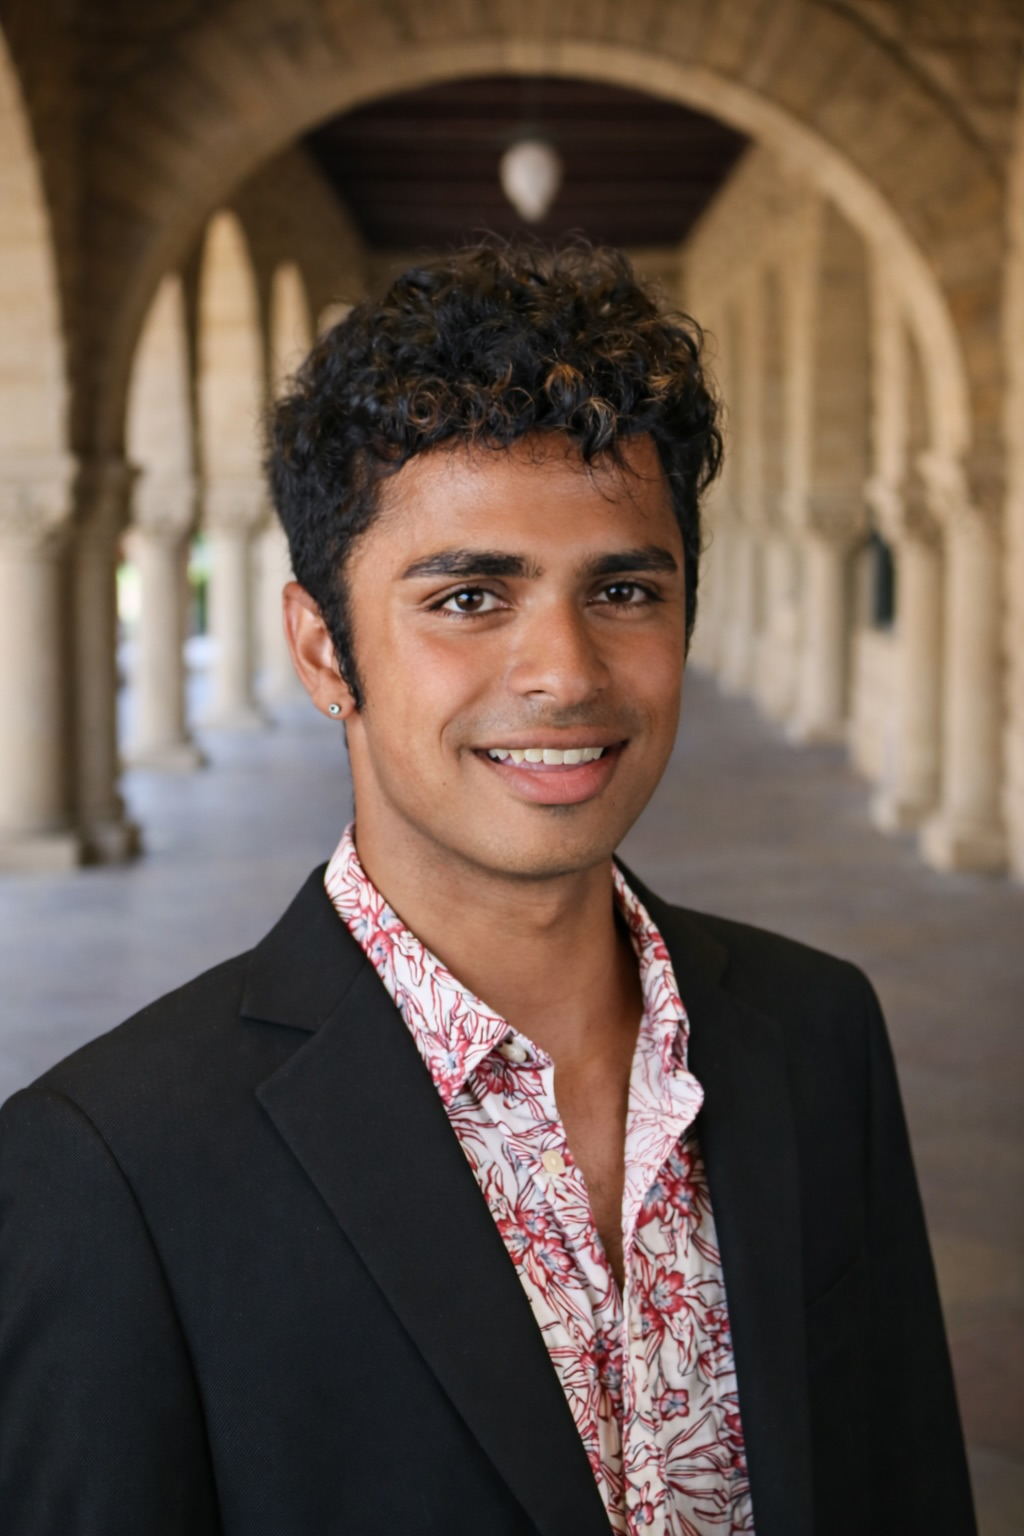
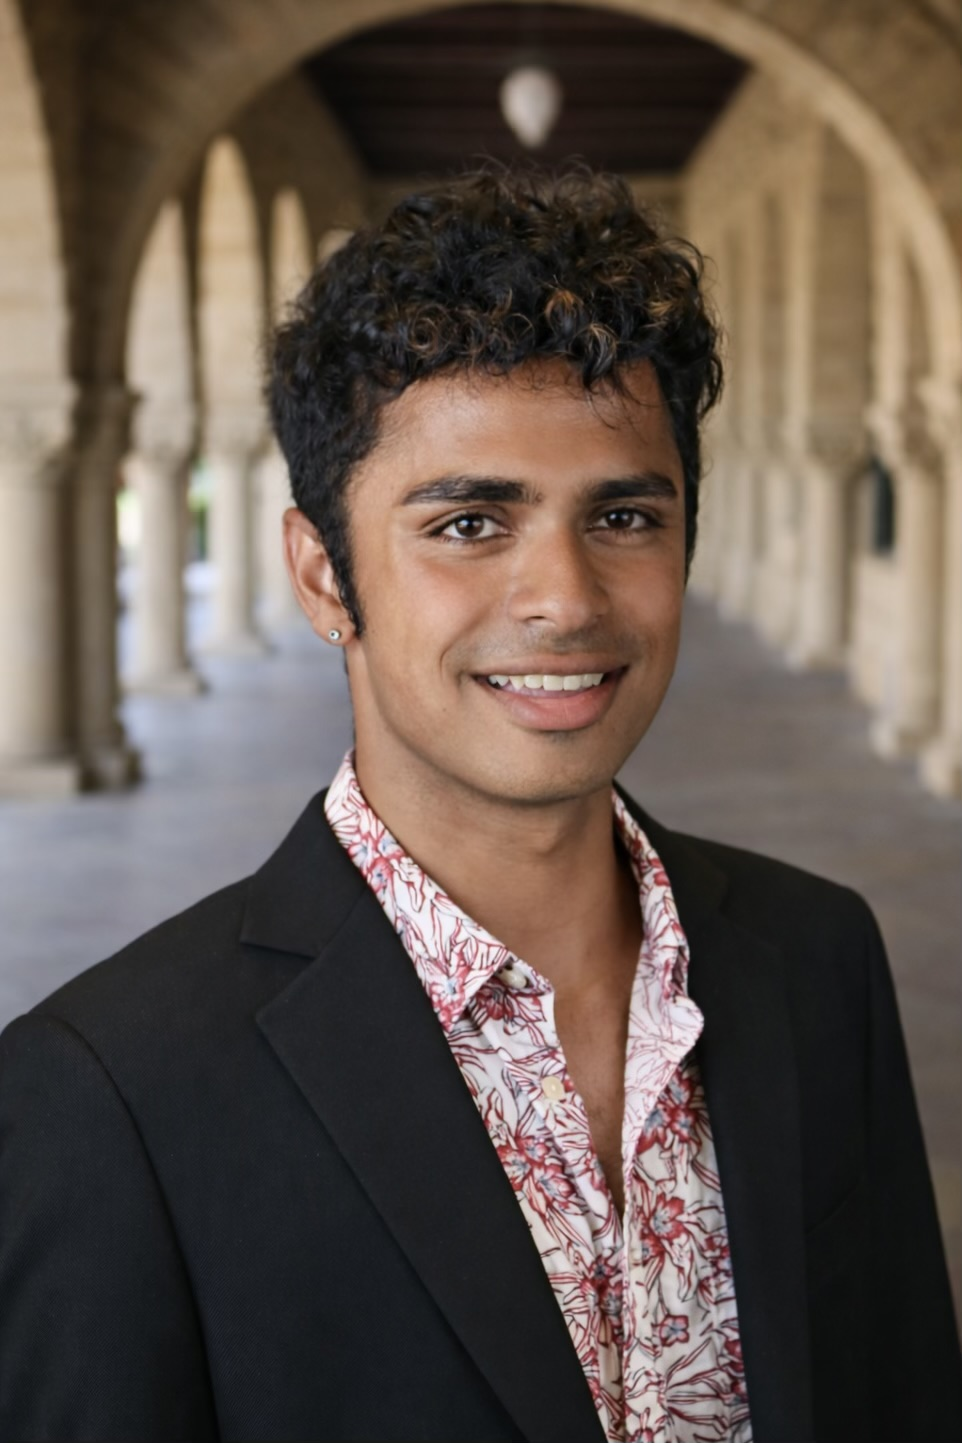
update headshots, mobile hero animations, and styling tweaks
New headshots with aligned eyelines, bolder NO BRAKES on mobile,
italic slogan, staggered hero entrance animation, and new event images.

diff --git a/index.html b/index.html
@@ -22,7 +22,7 @@
 
   <link rel="preconnect" href="https://fonts.googleapis.com">
   <link rel="preconnect" href="https://fonts.gstatic.com" crossorigin>
-  <link href="https://fonts.googleapis.com/css2?family=Caprasimo&family=Anton&family=IBM+Plex+Sans:wght@400;500;600;700&family=Sacramento&family=Archivo+Black&family=Playfair+Display:ital,wght@0,700;1,700&family=Share+Tech+Mono&family=Permanent+Marker&display=swap" rel="stylesheet">
+  <link href="https://fonts.googleapis.com/css2?family=Caprasimo&family=Anton&family=IBM+Plex+Sans:wght@400;500;600;700&family=Sacramento&family=Archivo+Black&family=Playfair+Display:ital,wght@0,700;1,700&family=Share+Tech+Mono&family=Bebas+Neue&display=swap" rel="stylesheet">
   <link rel="icon" href="img/favicon.svg" type="image/svg+xml">
   <link rel="icon" href="img/favicon.png" type="image/png" sizes="64x64">
   <link rel="stylesheet" href="style.css">
@@ -197,7 +197,7 @@
   <div class="road"><div class="road-lines"><span></span><span></span><span></span><span></span><span></span></div></div>
   <div class="marquee marquee--yellow">
     <div class="marquee-track marquee-track--reverse">
-      <span>★ THE CLASSICS ★ 70+ EVENTS FUNDED ★ MADHAV & EVA ★ THE CLASSICS ★ 70+ EVENTS FUNDED ★ MADHAV & EVA ★&nbsp;</span>
+      <span>★ THE CLASSICS ★ 70+ EVENTS HOSTED AND SUPPORTED ★ MADHAV & EVA ★ THE CLASSICS ★ 70+ EVENTS HOSTED AND SUPPORTED ★ MADHAV & EVA ★&nbsp;</span>
     </div>
   </div>
 
@@ -212,16 +212,16 @@
     <div class="flyer-masonry">
       <div class="flyer-card" data-tilt><img src="img/full-moon.png" alt="Full Moon on the Quad"><span class="flyer-label">Full Moon on the Quad</span></div>
       <div class="flyer-card" data-tilt><img src="img/full-moon-2.jpg" alt="Full Moon on the Quad 2"><span class="flyer-label">Full Moon on the Quad</span></div>
-      <div class="flyer-card" data-tilt><img src="img/day-n-mayfield.png" alt="Day N Mayfield"><span class="flyer-label">Day N Mayfield</span></div>
+      <div class="flyer-card" data-tilt><img src="img/day-n-mayfield.jpg" alt="Day N Mayfield"><span class="flyer-label">Day N Mayfield</span></div>
       <div class="flyer-card" data-tilt><img src="img/down-to-funk.png" alt="Down to Funk"><span class="flyer-label">Down to Funk</span></div>
       <div class="flyer-card" data-tilt><img src="img/houseparty.png" alt="Faculty + Students Houseparty"><span class="flyer-label">Faculty Houseparty</span></div>
       <div class="flyer-card" data-tilt><img src="img/rents-due.png" alt="'Rents Due"><span class="flyer-label">'Rents Due</span></div>
       <div class="flyer-card" data-tilt><img src="img/town-hall.png" alt="Town Hall"><span class="flyer-label">Town Hall</span></div>
       <div class="flyer-card" data-tilt><img src="img/crochella.png" alt="Crochella"><span class="flyer-label">Crochella</span></div>
-      <div class="flyer-card" data-tilt><img src="img/wasted-tuition.png" alt="Wasted Tuition"><span class="flyer-label">Wasted Tuition</span></div>
-      <div class="flyer-card" data-tilt><img src="img/dance-of-dead.png" alt="Dance of the Dead"><span class="flyer-label">Dance of the Dead</span></div>
-      <div class="flyer-card" data-tilt><img src="img/nomad.png" alt="NOMAD"><span class="flyer-label">NOMAD</span></div>
-      <div class="flyer-card" data-tilt><img src="img/raveyard.png" alt="RAVEYARD"><span class="flyer-label">RAVEYARD</span></div>
+      <div class="flyer-card" data-tilt><img src="img/wasted-tuition.jpg" alt="Wasted Tuition"><span class="flyer-label">Wasted Tuition</span></div>
+      <div class="flyer-card" data-tilt><img src="img/dance-of-dead.jpg" alt="Dance of the Dead"><span class="flyer-label">Dance of the Dead</span></div>
+      <div class="flyer-card" data-tilt><img src="img/nomad.jpg" alt="NOMAD"><span class="flyer-label">NOMAD</span></div>
+      <div class="flyer-card" data-tilt><img src="img/raveyard.jpg" alt="RAVEYARD"><span class="flyer-label">RAVEYARD</span></div>
       <div class="flyer-card" data-tilt><img src="img/street-meat.png" alt="Street Meat"><span class="flyer-label">Street Meat</span></div>
       <div class="flyer-card" data-tilt><img src="img/flicks.png" alt="FLiCKS"><span class="flyer-label">FLiCKS</span></div>
       <div class="flyer-card" data-tilt><img src="img/row-trick-or-treat.jpg" alt="Row Trick or Treat"><span class="flyer-label">Row Trick or Treat</span></div>
@@ -230,6 +230,8 @@
       <div class="flyer-card" data-tilt><img src="img/soph-formal.jpg" alt="Soph Formal: Secret Garden"><span class="flyer-label">Soph Formal</span></div>
       <div class="flyer-card" data-tilt><img src="img/eurotrash.jpg" alt="Eurotrash"><span class="flyer-label">Eurotrash</span></div>
       <div class="flyer-card" data-tilt><img src="img/date-drop.png" alt="Stanford Date Drop"><span class="flyer-label">Date Drop</span></div>
+      <div class="flyer-card" data-tilt><img src="img/classic-new-1.jpg" alt="Big Game Merch"><span class="flyer-label">Big Game Merch</span></div>
+      <div class="flyer-card" data-tilt><img src="img/classic-new-2.jpg" alt="Date Drop x On Call"><span class="flyer-label">Date Drop x On Call</span></div>
     </div>
   </section>
 
@@ -253,7 +255,7 @@
         </div>
       </div>
       <div class="duo-card" data-tilt>
-        <div class="duo-photo"><img src="img/eva-headshot.jpg" alt="Eva" class="duo-photo-img"></div>
+        <div class="duo-photo"><img src="img/eva-headshot.jpg" alt="Eva" class="duo-photo-img duo-photo-img--eva"></div>
         <div class="duo-info">
           <span class="duo-role">Vice President</span>
           <h3 class="duo-name">Eva</h3>
@@ -454,7 +456,6 @@
 
   <script src="https://cdnjs.cloudflare.com/ajax/libs/gsap/3.12.5/gsap.min.js"></script>
   <script src="https://cdnjs.cloudflare.com/ajax/libs/gsap/3.12.5/ScrollTrigger.min.js"></script>
-  <script src="https://cdn.jsdelivr.net/npm/lenis@1.1.18/dist/lenis.min.js"></script>
   <script src="script.js"></script>
 </body>
 </html>

diff --git a/style.css b/style.css
@@ -77,7 +77,6 @@ a { color: inherit; text-decoration: none; cursor: none; }
 }
 .retro-text--red {
   color: var(--red);
-  text-shadow: 6px 6px 0 rgba(107,10,34,0.5);
 }
 
 /* ═══════════════ HERO ═══════════════ */
@@ -172,7 +171,6 @@ a { color: inherit; text-decoration: none; cursor: none; }
   text-transform: uppercase;
   color: var(--red);
   position: relative; z-index: 2;
-  text-shadow: 6px 6px 0 rgba(107,10,34,0.5);
 }
 
 /* ═══════════════ THE LICENSE PLATE ═══════════════ */
@@ -224,10 +222,13 @@ a { color: inherit; text-decoration: none; cursor: none; }
 
 /* Slogan below plate */
 .hero-slogan {
-  font-family: 'Permanent Marker', cursive;
+  font-family: var(--font-display);
+  letter-spacing: 2px;
   font-size: clamp(1.4rem, 3.5vw, 2.5rem);
+  font-style: italic;
   color: var(--red);
   position: relative; z-index: 2;
+  text-align: center;
   text-shadow: 2px 2px 0 rgba(107,10,34,0.15);
 }
 
@@ -387,6 +388,7 @@ a { color: inherit; text-decoration: none; cursor: none; }
   transition: box-shadow .3s, transform .3s;
   break-inside: avoid;
   margin-bottom: 1rem;
+  margin-bottom: 1rem;
 }
 .flyer-card:hover { box-shadow: 7px 7px 0 var(--red-dark); }
 
@@ -491,7 +493,8 @@ a { color: inherit; text-decoration: none; cursor: none; }
   will-change: transform; transition: box-shadow .3s;
 }
 .duo-photo { width: 100%; aspect-ratio: 3/4; display: flex; align-items: center; justify-content: center; overflow: hidden; border-radius: 14px 14px 0 0; }
-.duo-photo-img { width: 100%; height: 100%; object-fit: cover; object-position: center top; }
+.duo-photo-img { width: 100%; height: 100%; object-fit: cover; object-position: center 20%; }
+.duo-photo-img--eva { object-position: center 25%; }
 .duo-initial { font-family: var(--font-display); font-size: 5rem; color: rgba(255,255,255,0.15); }
 .duo-info { padding: 1.5rem 1.8rem; }
 .duo-role {
@@ -661,11 +664,14 @@ a { color: inherit; text-decoration: none; cursor: none; }
   body, a { cursor: auto; }
   .cur, .cursor-spark { display: none !important; }
 
+  .retro-text--yellow { text-shadow: 3px 3px 0 var(--red-dark); }
+  .retro-text--white { text-shadow: 3px 3px 0 var(--red-dark); }
+
   .nav { padding: 0.6rem 1rem; }
   .nav-logo { font-size: 0.95rem; }
   .nav-btn { font-size: 0.7rem; padding: 0.5rem 1rem; }
 
-  .hero { padding: 3rem 1rem 1.5rem; gap: 0.6rem; }
+  .hero { padding: 0.5rem 1rem 1.5rem; gap: 0.4rem; }
   .palm { display: none; }
   .hero-car-main { display: none; }
   .hero-highway { height: 45%; }
@@ -673,7 +679,7 @@ a { color: inherit; text-decoration: none; cursor: none; }
   .plate-bolt { width: 9px; height: 9px; }
   .plate-bolt::after { width: 3px; height: 3px; }
   .hero-btn { font-size: 0.8rem; padding: 0.65rem 1.5rem; letter-spacing: 2px; }
-  .hero-eyebrow { font-size: 1rem; letter-spacing: 2px; }
+  .hero-eyebrow { font-size: 1.6rem; letter-spacing: 4px; font-weight: 900; -webkit-text-stroke: 1px var(--red); }
 
   .flyer-masonry { column-count: 2; column-gap: 0.7rem; }
   .flyer-card { margin-bottom: 0.7rem; }
@@ -691,7 +697,14 @@ a { color: inherit; text-decoration: none; cursor: none; }
   .ev-title { font-size: 0.95rem; }
 
   .footer-inner { flex-direction: column; gap: 0.4rem; text-align: center; }
+
+  /* staggered hero entrance */
+  .hero-eyebrow, .plate { opacity: 0; animation: heroFadeIn 0.6s ease forwards; }
+  .hero-slogan { opacity: 0; animation: heroFadeIn 0.6s ease 0.5s forwards; }
+  .hero-below { opacity: 0; animation: heroFadeIn 0.6s ease 1s forwards; }
 }
+
+@keyframes heroFadeIn { from { opacity: 0; transform: translateY(12px); } to { opacity: 1; transform: translateY(0); } }
 
 @media (max-width: 380px) {
   .hero-highway::after { width: 3px; }

diff --git a/script.js b/script.js
@@ -5,8 +5,6 @@
 
 gsap.registerPlugin(ScrollTrigger);
 const IS_TOUCH = "ontouchstart" in window || navigator.maxTouchPoints > 0;
-const lenis = new Lenis({ duration: 1.2, easing: (t) => Math.min(1, 1.001 - Math.pow(2, -10 * t)) });
-gsap.ticker.add((time) => lenis.raf(time * 1000));
 gsap.ticker.lagSmoothing(0);
 
 /* ═══ CURSOR + SPARKLE ═══ */
